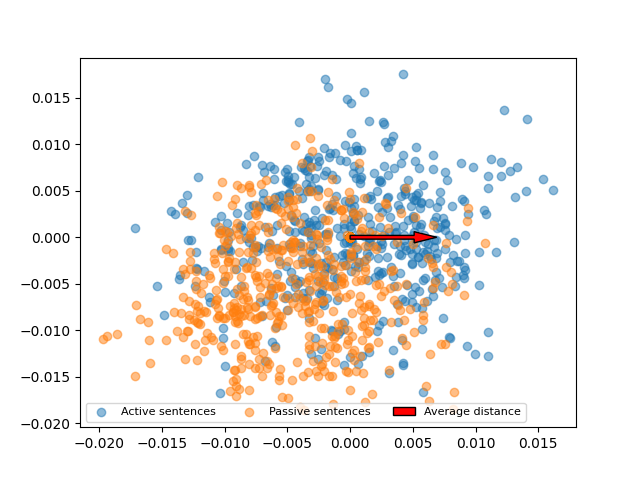
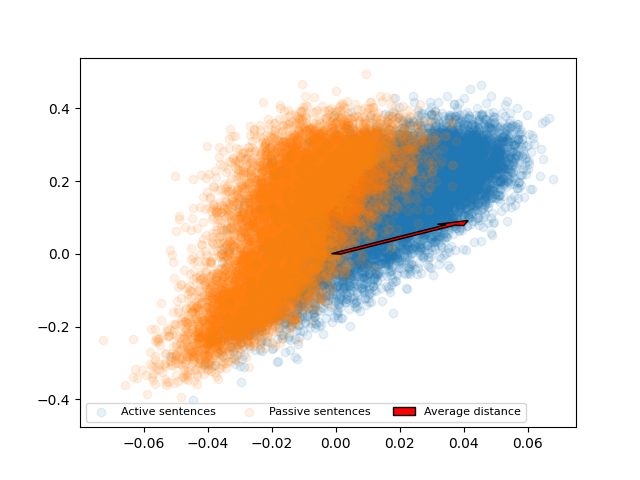
Add visualisation with individual distance vectors

diff --git a/PCAetc/PCA_alternative.py b/PCAetc/PCA_alternative.py
@@ -9,7 +9,8 @@ def get_sentence_embeddings(npy_location):
         assert emb.shape[2]==768
     except AssertionError:
         raise ValueError('File %s has dimension %s in second index. 768 expected.' % (npy_location, emb.shape[2]))
-    return np.reshape(emb, (emb.shape[1], emb.shape[0], 768))
+    emb = np.swapaxes(emb, 0, 1)
+    return emb
 
 def get_differences(emb):
     return emb[0]-emb[1]
@@ -19,7 +20,7 @@ def get_projection_vectors(vecs):
     pca = PCA()
     pca.fit(vecs)
     basis1 = mean
-    basis2 = pca.components_[-1]
+    basis2 = pca.components_[0]
     return basis1, basis2
 
 def project(vec, basis):
@@ -32,21 +33,21 @@ def project(vec, basis):
 
 
 def main():
-    emb = get_sentence_embeddings('data/simple_example_sentences_embedding.npy')
+    emb = get_sentence_embeddings('data/simple_example_sentences_embedding.npy')#[:,:100,:]
     diff = get_differences(emb)
     basis = get_projection_vectors(diff)
-    A_project = np.reshape(np.array([
+    A_project = np.swapaxes(np.array([
         project(vec, basis) for vec in emb[0]
-    ]), (2, -1))
-    B_project = np.reshape(np.array([
+    ]), 0, 1)
+    B_project = np.swapaxes(np.array([
         project(vec, basis) for vec in emb[1]
-    ]), (2, -1))
+    ]), 0, 1)
     mean_diff = np.mean(diff, axis=0)
     mean_diff_project = np.array(project(mean_diff, basis))
 
-    aplot = plt.scatter(*A_project, alpha=0.5)
-    bplot = plt.scatter(*B_project, alpha=0.5)
-    arrowplot = plt.arrow(x=0, y=0, dx=mean_diff_project[0], dy=mean_diff_project[1], width=.0004, facecolor='red')
+    aplot = plt.scatter(*A_project, alpha=0.1)
+    bplot = plt.scatter(*B_project, alpha=0.1)
+    arrowplot = plt.arrow(x=0, y=0, dx=mean_diff_project[0], dy=mean_diff_project[1], width=.003, facecolor='red')
 
     plt.legend((aplot, bplot, arrowplot),
                ('Active sentences', 'Passive sentences', 'Average distance'),
@@ -55,6 +56,32 @@ def main():
                ncol=3,
                fontsize=8)
     plt.savefig('../results/img/active_passive_simple_sentences_visualisation.png')
+    plt.show()
+
+    # showing all difference vectors
+    max_number_of_difference_vectors = 40
+    aplot = plt.scatter(*A_project, alpha=0.1)
+    bplot = plt.scatter(*B_project, alpha=0.1)
+    A_project = np.swapaxes(A_project, 0, 1)
+    B_project = np.swapaxes(B_project, 0, 1)
+    for k, (vec_A, vec_B) in enumerate(zip(A_project, B_project)):
+        if k >= max_number_of_difference_vectors:
+            break
+        arrowplot = plt.arrow(
+            x=vec_A[0],
+            y=vec_A[1],
+            dx=vec_B[0]-vec_A[0],
+            dy=vec_B[1]-vec_A[1],
+            width=.003, facecolor='red',
+        alpha=0.5)
+
+    plt.legend((aplot, bplot, arrowplot),
+               ('Active sentences', 'Passive sentences', 'Corresponding differences'),
+               scatterpoints=1,
+               loc='lower left',
+               ncol=3,
+               fontsize=8)
+    plt.savefig('../results/img/active_passive_simple_sentences_individual_arrows_visualisation.png')
     plt.show()
 
 
